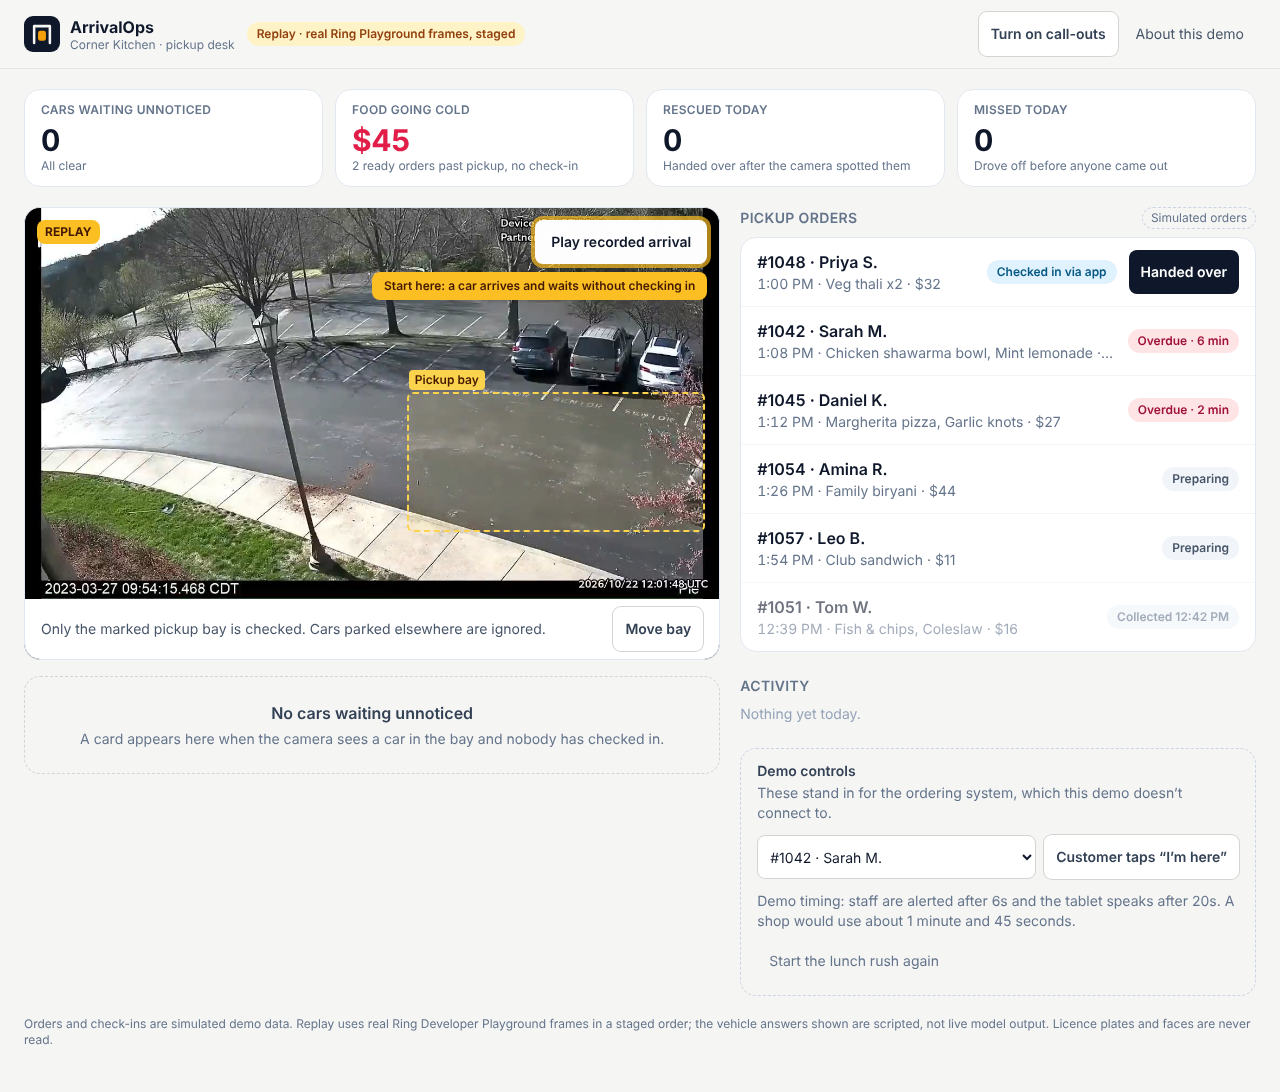
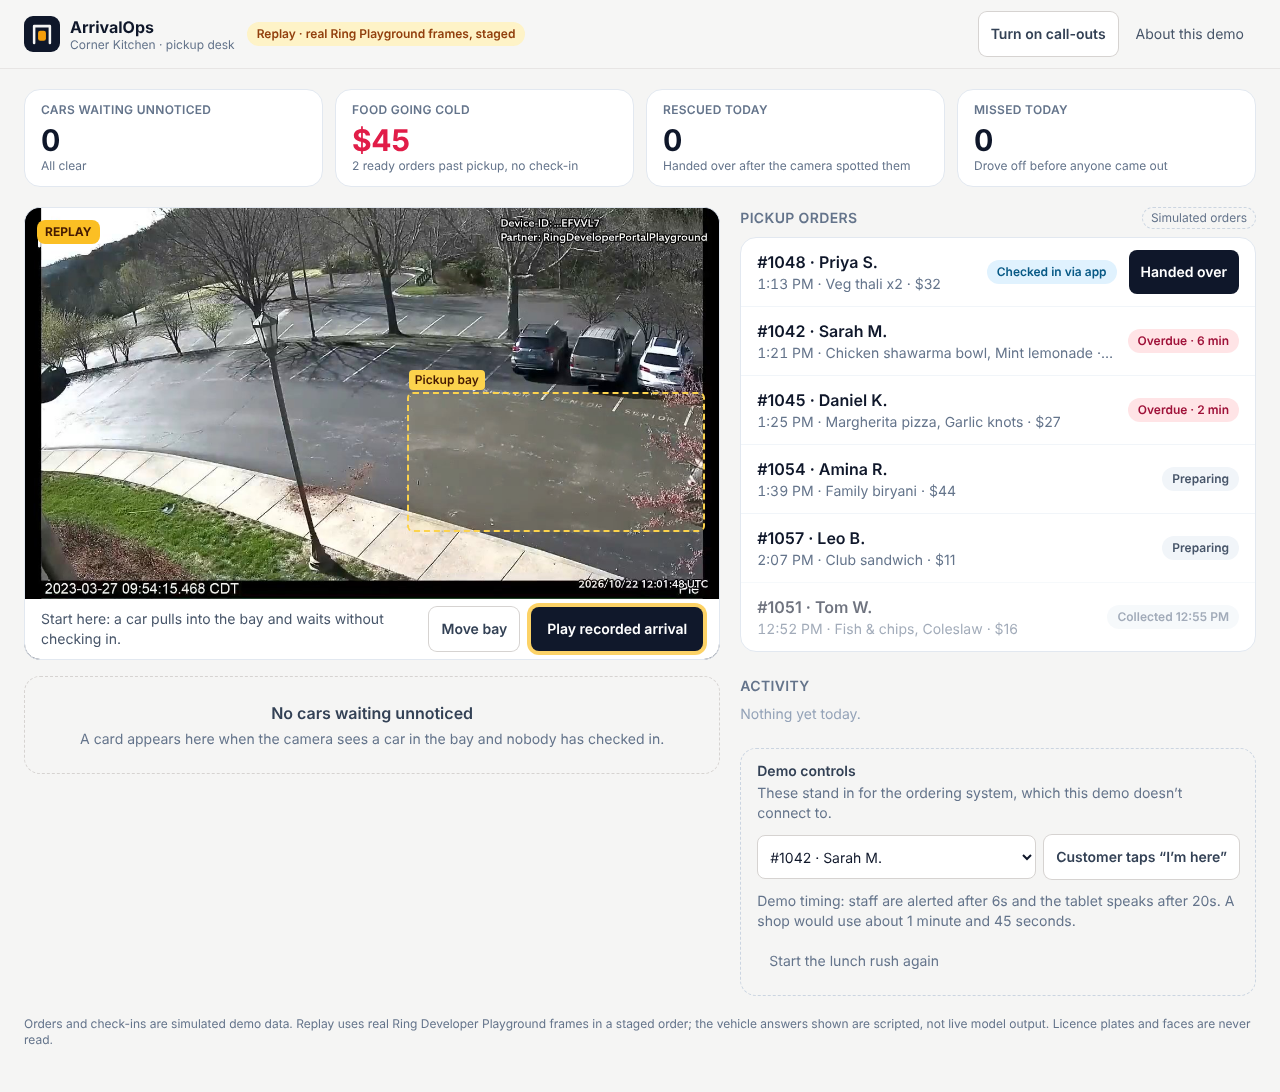
Fix replay restarts, call-out labelling and the play button position
- Restarting a replay clears the half-played car instead of leaving a duplicate case or counting a missed pickup
- Unanswered alerts are only marked "called out" when the counter tablet actually has call-outs on
- Promotions made during polling are now saved on the shop board
- Play/Stop replay moved below the picture so it no longer covers the Ring device overlay

Claude-Session: https://claude.ai/code/session_01XLxdMuz4CHjxyzH3kVFwLZ

Changed region(s): [[0.0312, 0.5293, 0.5625, 0.6227], [0.2812, 0.1868, 0.5625, 0.2802]]

diff --git a/app/components/desk/CameraPanel.tsx b/app/components/desk/CameraPanel.tsx
@@ -133,19 +133,6 @@ export function CameraPanel({ live, latest, replay, startReplay, stopReplay, onO
                 {replay.note}
               </span>
             )}
-            <button
-              onClick={replay.running ? stopReplay : startReplay}
-              className={`absolute right-3 top-3 min-h-11 rounded-lg bg-white px-4 text-sm font-semibold text-slate-900 hover:bg-slate-100 ${
-                replay.played ? '' : 'ring-4 ring-amber-400/70 motion-safe:animate-pulse'
-              }`}
-            >
-              {replay.running ? 'Stop' : replay.played ? 'Play again' : 'Play recorded arrival'}
-            </button>
-            {!replay.played && !latest && (
-              <p className="absolute right-3 top-16 hidden rounded-lg bg-amber-400 sm:block px-3 py-1.5 text-xs font-semibold text-amber-950">
-                Start here: a car arrives and waits without checking in
-              </p>
-            )}
           </>
         )}
         <ZoneLayer
@@ -161,11 +148,13 @@ export function CameraPanel({ live, latest, replay, startReplay, stopReplay, onO
       {live
         ? streamActive && <VisionChip v={last?.vision} checking={checking} source="Ring live" />
         : latest?.source === 'replay' && <VisionChip v={latest.vision} source="Replay" />}
-      <div className="flex items-center justify-between gap-3 bg-white px-4 py-2 text-sm text-slate-600">
-        <span>
-          {settings.zone
-            ? 'Only the marked pickup bay is checked. Cars parked elsewhere are ignored.'
-            : 'The whole picture is checked. Mark the pickup bay so parked cars are ignored.'}
+      <div className="flex flex-wrap items-center justify-end gap-x-3 gap-y-2 bg-white px-4 py-2 text-sm text-slate-600">
+        <span className="min-w-[14rem] flex-1">
+          {!live && !replay.played && !latest
+            ? 'Start here: a car pulls into the bay and waits without checking in.'
+            : settings.zone
+              ? 'Only the marked pickup bay is checked. Cars parked elsewhere are ignored.'
+              : 'The whole picture is checked. Mark the pickup bay so parked cars are ignored.'}
         </span>
         <button
           disabled={busy || editingZone}
@@ -174,6 +163,18 @@ export function CameraPanel({ live, latest, replay, startReplay, stopReplay, onO
         >
           {settings.zone ? 'Move bay' : 'Mark pickup bay'}
         </button>
+        {!live && (
+          <button
+            onClick={replay.running ? stopReplay : startReplay}
+            className={`min-h-11 flex-none rounded-lg px-4 font-semibold ${
+              replay.running
+                ? 'bg-white text-slate-900 ring-1 ring-stone-300 hover:bg-stone-50'
+                : 'bg-slate-900 text-white hover:bg-slate-700'
+            } ${replay.played ? '' : 'ring-4 ring-amber-400/70 motion-safe:animate-pulse'}`}
+          >
+            {replay.running ? 'Stop replay' : replay.played ? 'Play again' : 'Play recorded arrival'}
+          </button>
+        )}
       </div>
     </section>
   )

diff --git a/lib/arrivalops/store.ts b/lib/arrivalops/store.ts
@@ -8,6 +8,7 @@ import { join } from 'path'
 import { z } from 'zod'
 import { computeMetrics } from './metrics'
 import {
+  closeOpenSightings,
   ActionError,
   casesToAnnounce,
   confirmMatch,
@@ -135,6 +136,12 @@ export function dispatch(input: unknown, ctx = ctxNow(), boardId = SHOP_BOARD) {
   return view(state, ctx.now)
 }
 
+/** A replay started again before the last one finished: its car shouldn't linger or count as missed. */
+export function restartReplay(ctx = ctxNow(), boardId = SHOP_BOARD) {
+  const state = getState(boardId)
+  if (closeOpenSightings(state, ctx, 'Replay restarted; the earlier car was cleared')) save(state, boardId)
+}
+
 export function recordObservation(
   input: { deviceId: string; deviceName?: string; source: Observation['source']; frame?: string },
   vision: VisionResult,
@@ -148,12 +155,15 @@ export function recordObservation(
   return { caseId: c?.id ?? null, view: view(state, ctx.now) }
 }
 
-/** Mark overdue cases as announced and return them; the caller plays them on the chime. */
-export function takeAnnouncements(ctx = ctxNow(), boardId = SHOP_BOARD) {
+/**
+ * Called on every poll. Moves cars past the dwell time to staff, and, when the counter tablet has call-outs on,
+ * marks alerts nobody answered as announced and returns them for the tablet to say out loud.
+ */
+export function takeAnnouncements(ctx = ctxNow(), boardId = SHOP_BOARD, speaking = true) {
   const state = getState(boardId)
-  promote(state, ctx) // a car can pass the dwell time between sightings
-  const due = casesToAnnounce(state, ctx.now)
+  const promoted = promote(state, ctx) // a car can pass the dwell time between sightings
+  const due = speaking ? casesToAnnounce(state, ctx.now) : []
   for (const c of due) c.chimeAnnouncedAt = ctx.now.toISOString()
-  if (due.length) save(state, boardId)
+  if (due.length || promoted.length) save(state, boardId)
   return due
 }

diff --git a/app/api/arrivalops/replay/route.ts b/app/api/arrivalops/replay/route.ts
@@ -1,7 +1,7 @@
 import { NextRequest, NextResponse } from 'next/server'
 import { DEFAULT_STEPS, REPLAY_DEVICE } from '@/lib/arrivalops/replay'
 import { boardFor, rememberBoard } from '@/lib/arrivalops/board'
-import { ctxNow, recordObservation } from '@/lib/arrivalops/store'
+import { ctxNow, recordObservation, restartReplay } from '@/lib/arrivalops/store'
 import { MODEL_ID } from '@/lib/arrivalops/vision'
 
 export const dynamic = 'force-dynamic'
@@ -14,6 +14,7 @@ export async function POST(request: NextRequest) {
   if (!Number.isInteger(step) || !s) return NextResponse.json({ error: 'Unknown replay step' }, { status: 400 })
   const vision = { latencyMs: 0, model: s.recorded ? `${MODEL_ID} (recorded)` : 'scripted answer', ...s.vision }
   const board = boardFor(request)
+  if (step === 0) restartReplay(ctxNow(), board.boardId)
   const result = recordObservation({ ...REPLAY_DEVICE, source: 'replay', frame: s.frame }, vision, ctxNow(), board.boardId)
   const next = DEFAULT_STEPS[step + 1]
   const res = NextResponse.json({

diff --git a/lib/arrivalops/replay.test.ts b/lib/arrivalops/replay.test.ts
@@ -2,7 +2,7 @@ import { existsSync } from 'node:fs'
 import { join } from 'node:path'
 import { describe, expect, it } from 'vitest'
 import { DEFAULT_STEPS, REPLAY_DEVICE } from './replay'
-import { dispatch, recordObservation } from './store'
+import { dispatch, getState, recordObservation, restartReplay, view } from './store'
 
 describe('replay recording', () => {
   it('ships every frame it refers to', () => {
@@ -37,5 +37,13 @@ describe('replay recording', () => {
     const view = play(DEFAULT_STEPS.length)
     expect(view.cases[0].status).toBe('left')
     expect(view.metrics.missedToday).toBe(1)
+  })
+
+  it('clears a half-played run when the replay starts again, without counting a missed pickup', () => {
+    play(3)
+    restartReplay({ now: new Date(Date.now() + 60_000), id: (p) => `${p}_restart` }, 'replay-test')
+    const v = view(getState('replay-test'))
+    expect(v.cases.filter((c) => c.status === 'needs_review' || c.status === 'watching')).toHaveLength(0)
+    expect(v.metrics.missedToday).toBe(0)
   })
 })

diff --git a/app/api/arrivalops/tick/route.ts b/app/api/arrivalops/tick/route.ts
@@ -4,9 +4,10 @@ import { ctxNow, takeAnnouncements } from '@/lib/arrivalops/store'
 
 export const dynamic = 'force-dynamic'
 
-// Polled by the staff screen. Returns cases nobody has acted on for 45 s, once each, so the counter
-// device can announce them out loud.
+// Polled by the staff screen. With call-outs on (?speak=1) it returns cases nobody has acted on within the
+// call-out delay, once each, so the counter tablet can say them out loud. Without, nothing is marked announced.
 export function POST(request: NextRequest) {
   const { boardId } = boardFor(request)
-  return NextResponse.json({ announce: takeAnnouncements(ctxNow(), boardId).map((c) => ({ caseId: c.id })) })
+  const speaking = request.nextUrl.searchParams.get('speak') === '1'
+  return NextResponse.json({ announce: takeAnnouncements(ctxNow(), boardId, speaking).map((c) => ({ caseId: c.id })) })
 }

diff --git a/lib/arrivalops/reconcile.ts b/lib/arrivalops/reconcile.ts
@@ -129,6 +129,17 @@ export function promote(state: State, ctx: Ctx): ReviewCase[] {
   return promoted
 }
 
+/** Closes open sightings without counting a lost customer, e.g. when a demo replay is restarted part way. */
+export function closeOpenSightings(state: State, ctx: Ctx, reason: string): number {
+  const open = state.cases.filter((c) => OPEN.includes(c.status))
+  for (const c of open) {
+    c.status = 'passed'
+    c.resolvedAt = iso(ctx.now)
+  }
+  if (open.length) log(state, ctx, { kind: 'observation', text: reason })
+  return open.length
+}
+
 /**
  * A new camera sighting of the pickup bay. A car that stops starts a quiet "watching" case; it reaches staff
  * only after the dwell time, and only while some due order has no check-in. A clear bay ends the visit,

diff --git a/app/components/desk/CaseCard.tsx b/app/components/desk/CaseCard.tsx
@@ -77,7 +77,7 @@ export function CaseCard({ c, calloutSeconds, orders, observations, now, busy, a
           <h3 className="mt-1 text-2xl font-bold text-slate-900">{vehicleLabel(obs)} in the pickup bay</h3>
           <p className="mt-1 text-slate-600">
             Waiting <span className={`font-semibold tabular-nums ${urgent ? 'text-amber-700' : 'text-slate-900'}`}>{clock(waiting)}</span>
-            {c.chimeAnnouncedAt && ' · announced in store'}
+            {c.chimeAnnouncedAt && ' · called out on the counter tablet'}
             {obs && <span className="text-slate-400"> · {Math.round(obs.vision.confidence * 100)}% sure</span>}
           </p>
         </div>

diff --git a/app/hooks/useArrivalOps.ts b/app/hooks/useArrivalOps.ts
@@ -63,9 +63,9 @@ export function useArrivalOps({ soundOn }: { soundOn: boolean }) {
     refresh()
     const t = setInterval(async () => {
       await refresh()
-      const res = await fetch('/api/arrivalops/tick', { method: 'POST' }).catch(() => null)
+      const res = await fetch(`/api/arrivalops/tick${soundRef.current ? '?speak=1' : ''}`, { method: 'POST' }).catch(() => null)
       const data = res?.ok ? await res.json() : null
-      if (data?.announce?.length && soundRef.current) announce()
+      if (data?.announce?.length) announce()
     }, POLL_MS)
     return () => clearInterval(t)
   }, [refresh])
